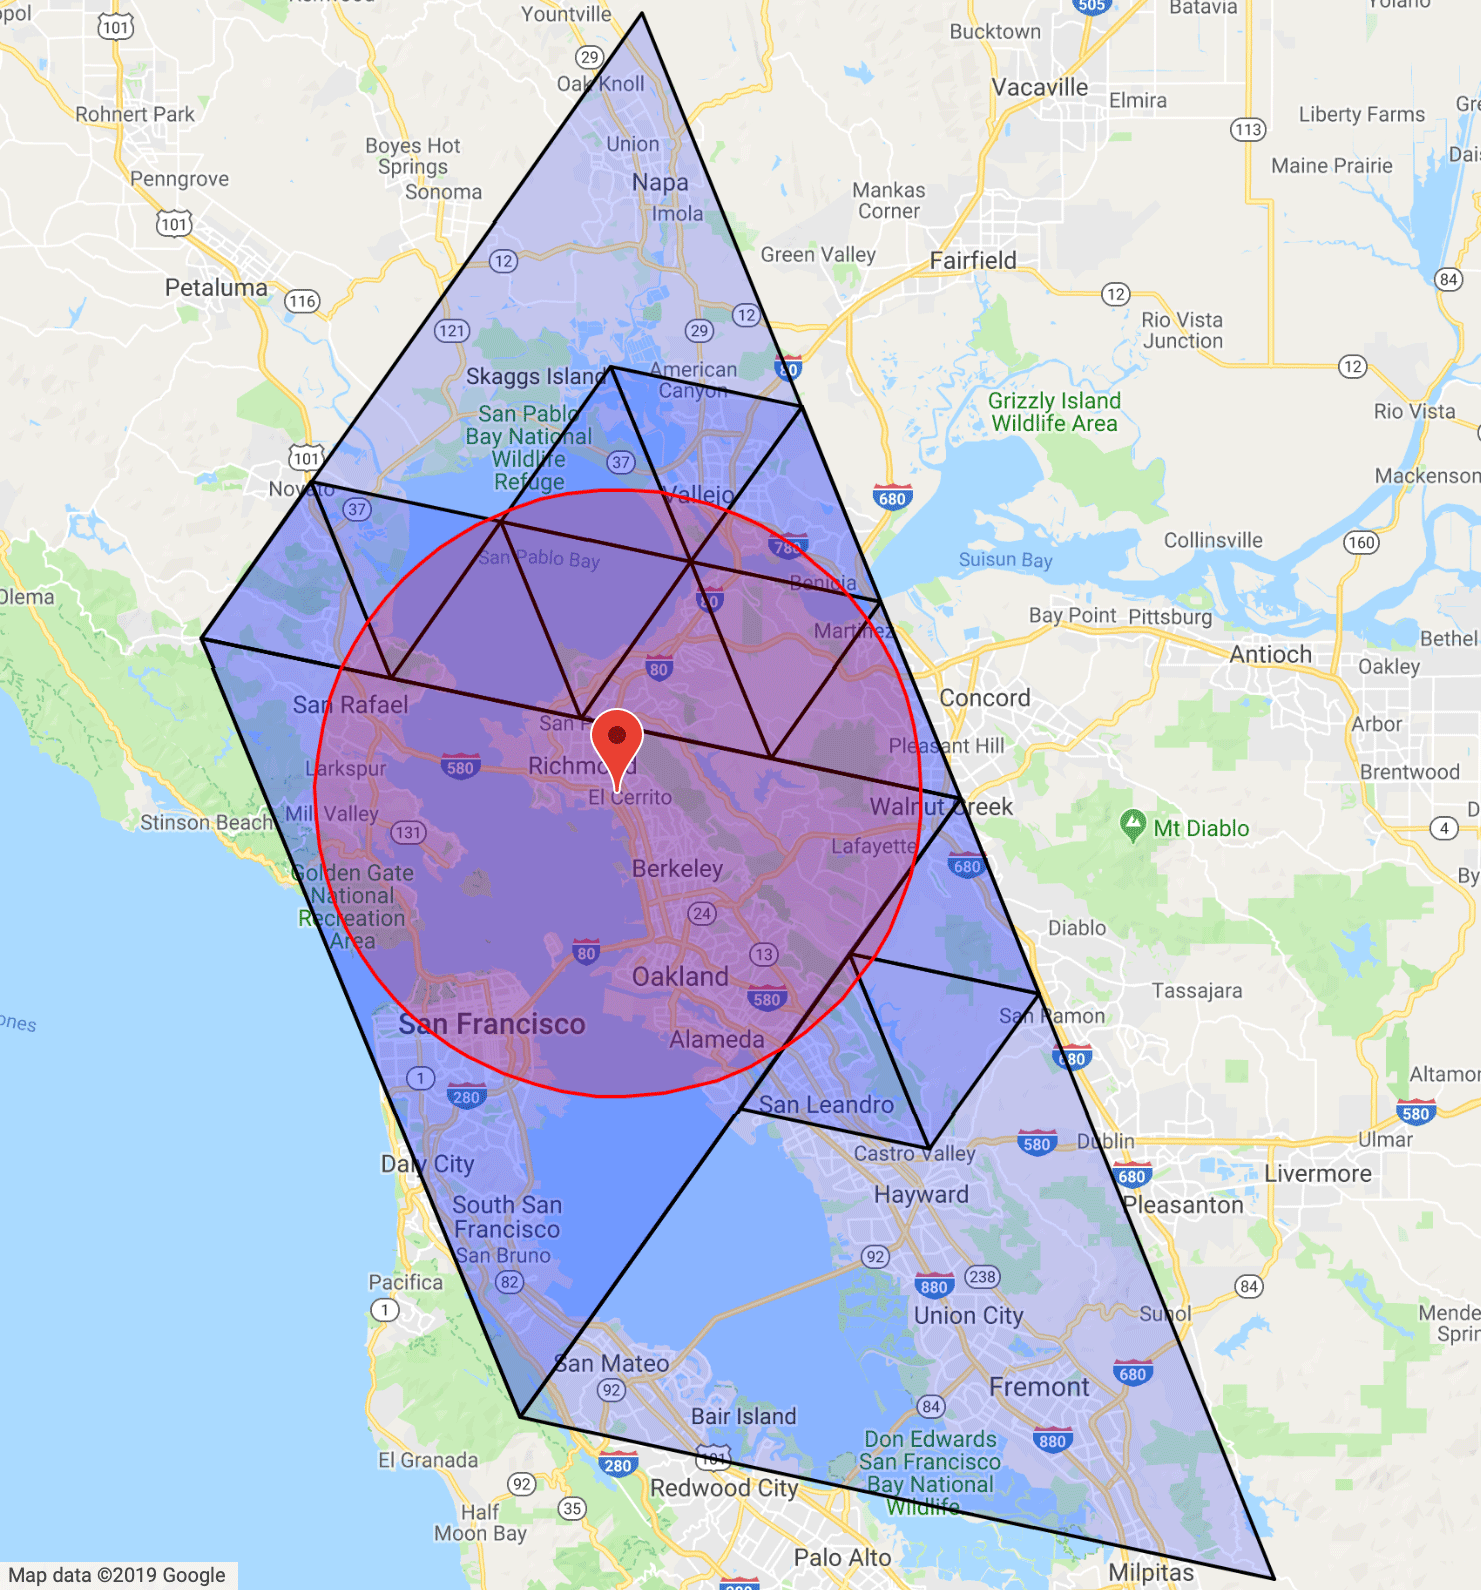
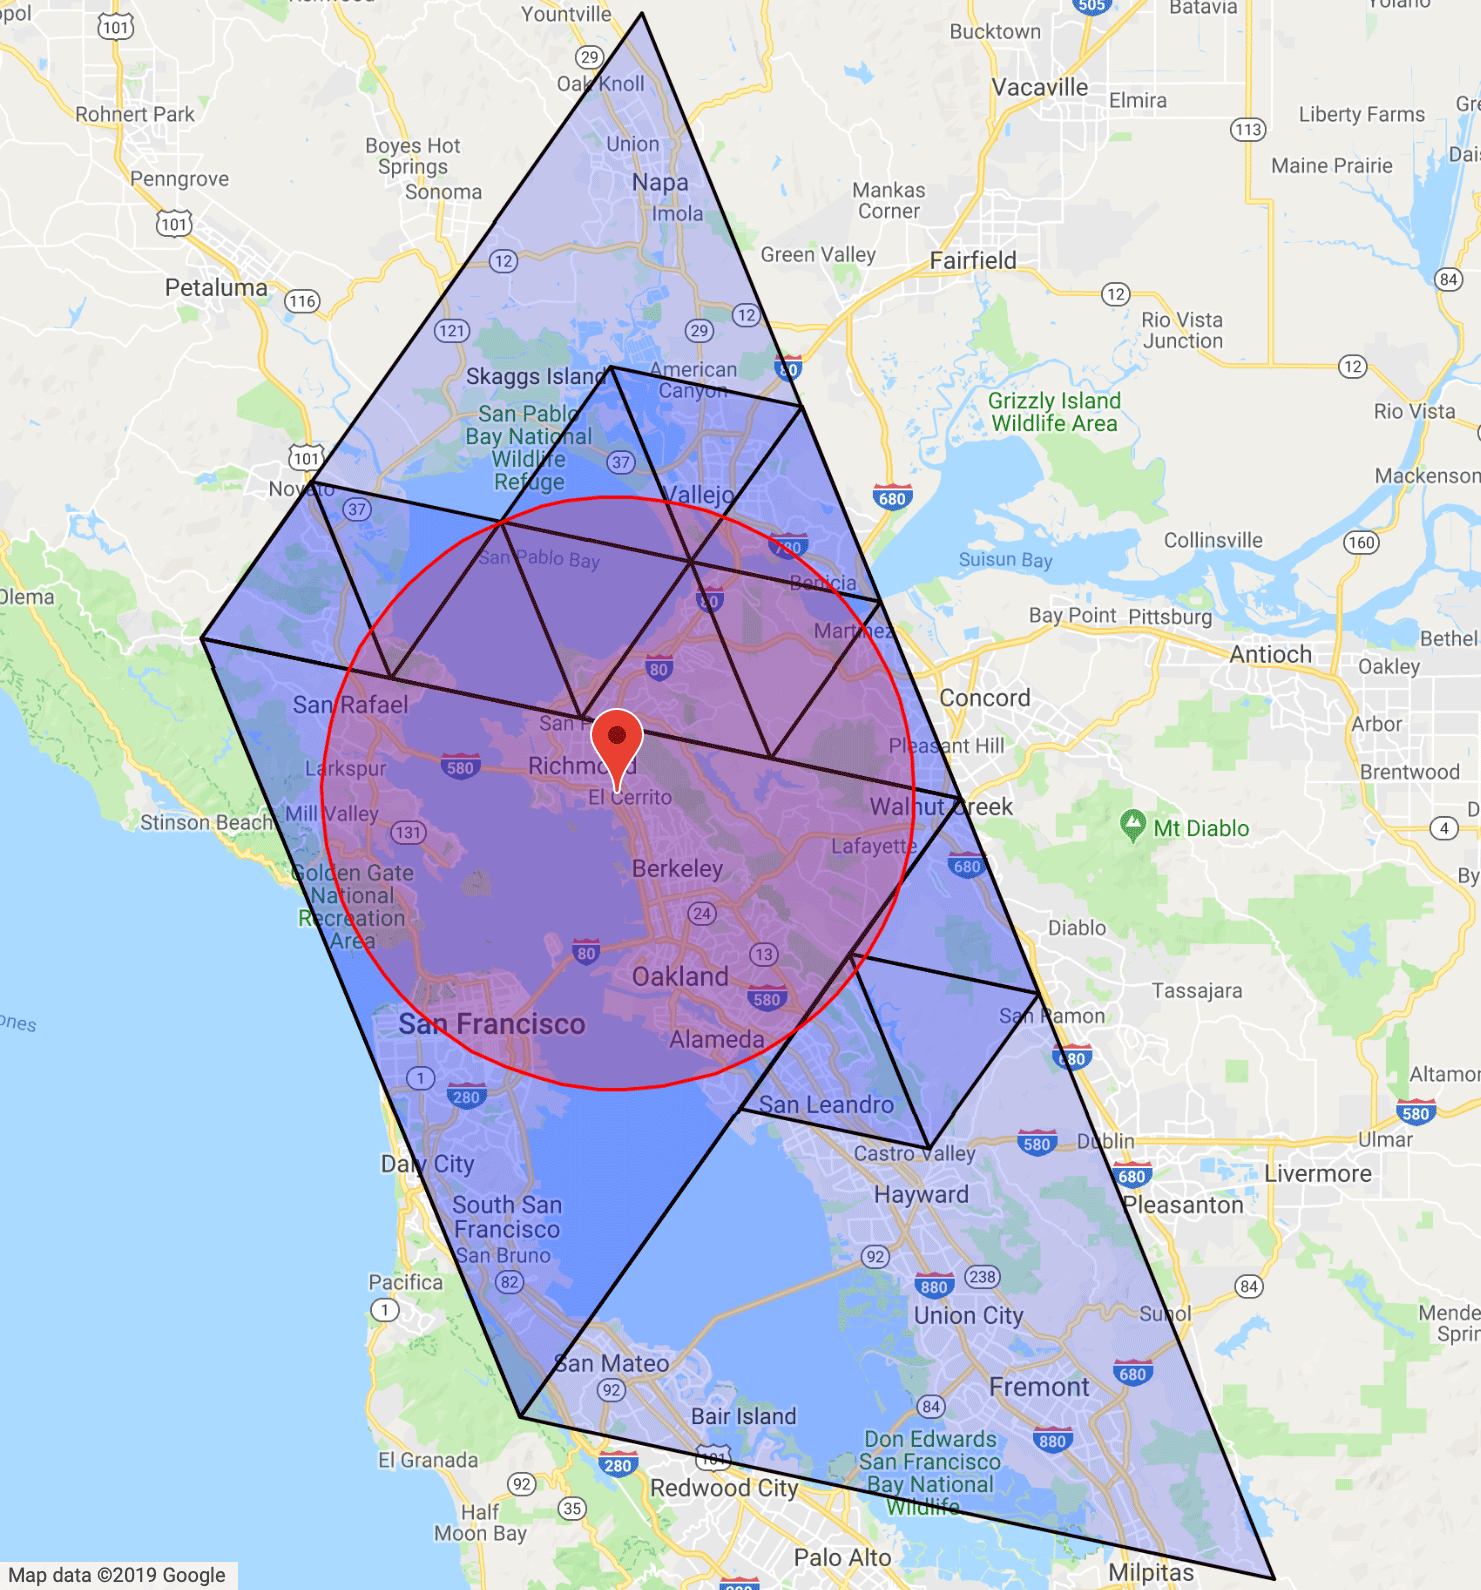
Docs: Updated El Cerrito map + references to HTM

diff --git a/docs/_tutorials/spatial-search.md b/docs/_tutorials/spatial-search.md
@@ -29,13 +29,16 @@ Content-Type: application/x-ndjson
 
 ## Searching
 
-
 Let's look for the nearest big cities near **_El Cerrito_, CA**, a city
 neighboring Berkeley in the San Francisco Bay Area.
 
 ![El Cerrito, CA]({{ '/assets/el_cerrito.png' | absolute_url }})
 
-The latitude/longitude of _El Cerrito_ is **(37.9180233, -122.3198401)**.
+The red circle in the map has a radius of **20 km** and is at the latitude/longitude
+of _El Cerrito_ **(37.9180233, -122.3198401)**. The map also shows all
+**trixels** that will be searched for (to speed the query up).
+See [Hierarchical Triangular Mesh]({{ '/docs/reference-guide/htm' | relative_url }})
+to find how _HTM **trixels**_ work.
 
 {% capture req %}
 

diff --git a/docs/_docs/reference-guide/htm.md b/docs/_docs/reference-guide/htm.md
@@ -33,3 +33,6 @@ about 10 milli-arcseconds for astronomers or 0.3 meters on the earth's surface:
 | 20    | 0.3090"    |          9.54 m |
 | 25    | 0.0097"    |          0.30 m |
 | 30    | 0.0003"    |          0.01 m |
+
+An example of HTM trixels in real life can be found in the
+[Spatial Search Tutorial]({{ '/tutorials/spatial-search/#searching' | relative_url }}).
